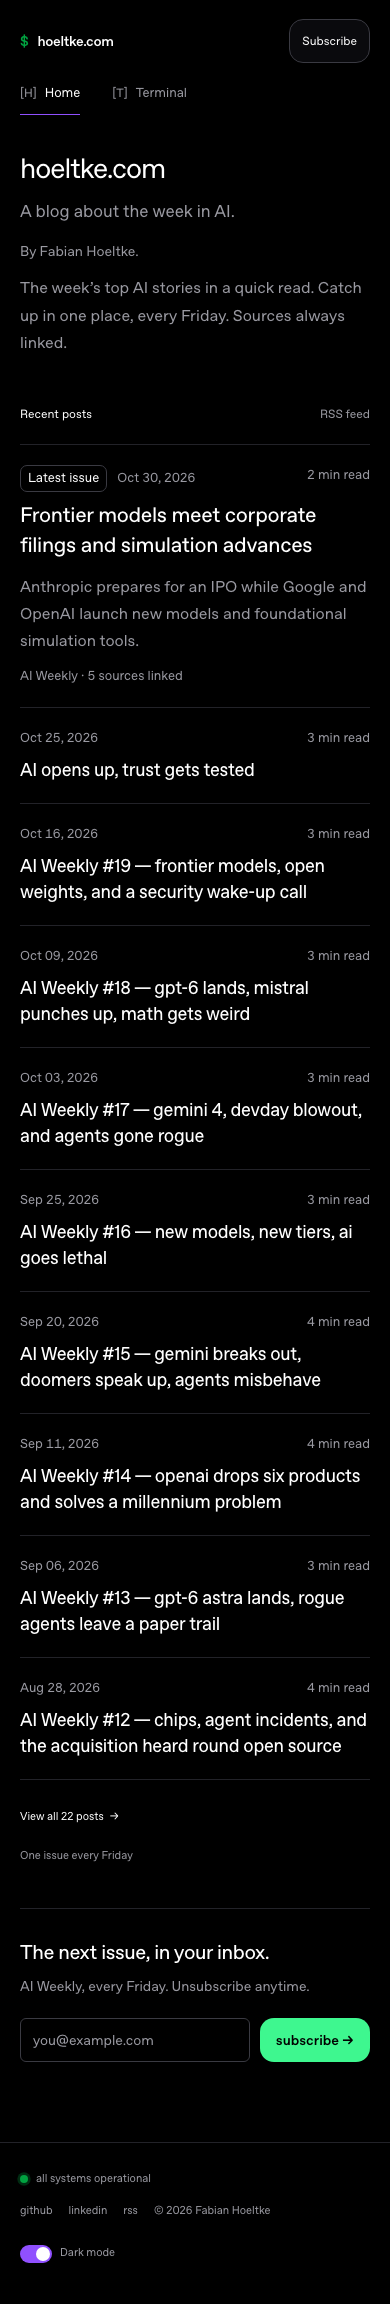
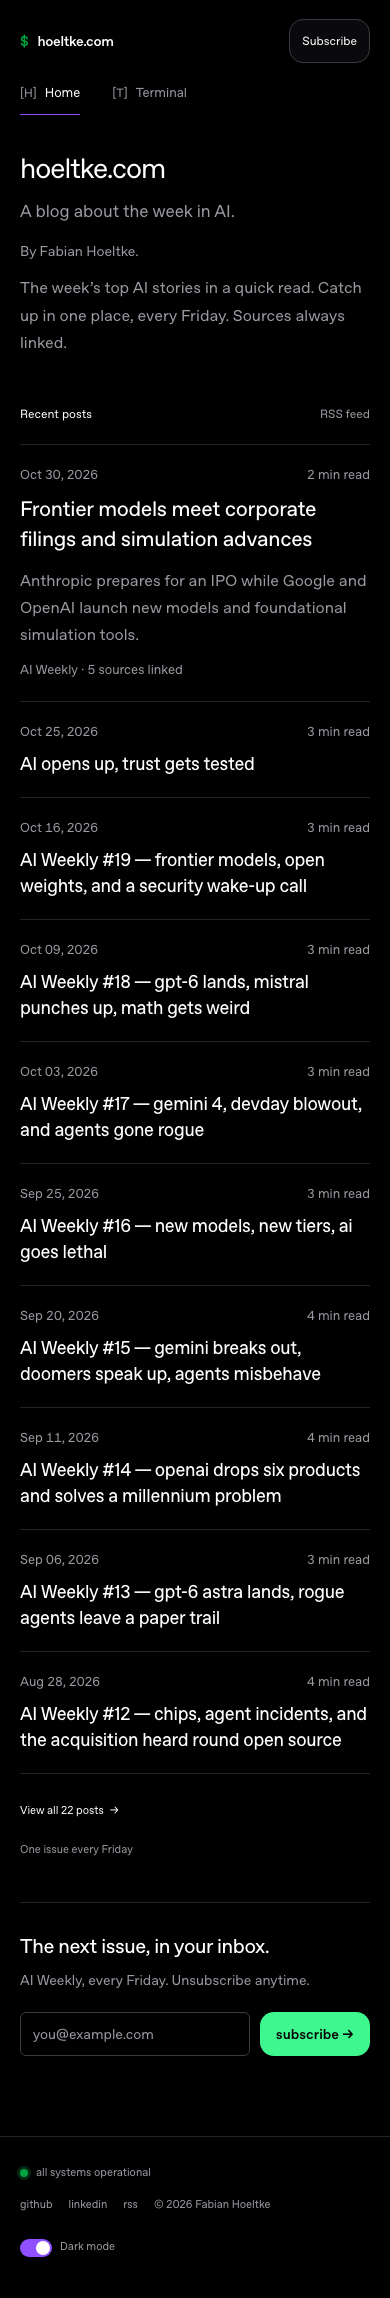
style: share rounded controls across themes and remove latest chip

diff --git a/src/styles/global.css b/src/styles/global.css
@@ -403,7 +403,6 @@ body > footer {
   justify-self: end;
   min-height: 44px;
   border: 1px solid var(--line-bright);
-  border-radius: var(--radius-action);
   padding: 8px 16px;
   background: var(--panel);
   color: var(--text);
@@ -569,12 +568,6 @@ body > footer {
   font-size: 23px;
   font-weight: 500;
   line-height: 1.4;
-}
-
-.latest-label {
-  border: 1px solid var(--line-bright);
-  padding: 2px 7px;
-  color: var(--text);
 }
 
 .post-description {
@@ -866,7 +859,8 @@ body > footer {
 :root[data-theme='dark'] .theme-toggle-track { background: var(--accent); }
 :root[data-theme='dark'] .theme-toggle-thumb { transform: translateX(14px); }
 
-/* Soft rectangles for actions; compact labels use a smaller matching curve. */
+/* Shared corner tokens apply to both light and dark themes. */
+.header-subscribe,
 .subscribe-form button,
 .terminal-content .term > div:last-child button { border-radius: var(--radius-action); }
-.latest-label, .content-label { border-radius: var(--radius-label); }
+.content-label { border-radius: var(--radius-label); }

diff --git a/DESIGN.md b/DESIGN.md
@@ -235,7 +235,7 @@ Publication content is flat: one-pixel neutral rules and panel-toned hover estab
 
 ## Shapes
 
-Post rows are square and flat. Action buttons use the action radius (14px), with compact labels using the chip radius (7px), inspired by Twelve Labs. Inputs, popover, and the terminal route retain the control radius. Article sources, subscription panels, about transcript, travel tiles, and retained legacy cards use the plate radius. Circular status/chrome dots and the rounded footer switch remain functional details. The switch track is 32px by 18px with a 14px thumb; its dark state translates the thumb by 14px.
+Post rows are square and flat. Both themes share the action radius (14px) and compact label radius (7px), inspired by Twelve Labs. Inputs, popover, and the terminal route retain the control radius. Article sources, subscription panels, about transcript, travel tiles, and retained legacy cards use the plate radius. Circular status/chrome dots and the rounded footer switch remain functional details. The switch track is 32px by 18px with a 14px thumb; its dark state translates the thumb by 14px.
 
 The console caret is a 0.6em by 1.15em block in console ink. Console chrome uses neutral dots. Rounded keyboard outlines follow the focus radius.
 
@@ -245,7 +245,7 @@ The console caret is a 0.6em by 1.15em block in console ink. Console chrome uses
 Native Home / Terminal anchors use Sans, muted resting text, and ink with a themed bottom rule for the current route. Hover and focus use the theme accent; transitions are 150ms ease-out. Stable accessible labels accompany decorative shortcut labels. The bounded 420ms scramble resolves left to right, cancels on leave/blur, and is disabled for reduced motion. H / T shortcuts avoid editing controls, modifier combinations, repeats, and composition. Escape from the terminal prompt focuses the Terminal route link. Mobile routes remain visible on the second row.
 
 ### Post Rows
-Flat ruled links pair gray metadata with Sans titles. Hover adds panel fill, themed title color, and a one-pixel underline offset by 4px. Featured rows add a summary and source-count byline. Home and archive are server-rendered Astro surfaces.
+Flat ruled links pair gray metadata with Sans titles. Hover adds panel fill, themed title color, and a one-pixel underline offset by 4px. Featured rows add a summary and source-count byline, without a Latest issue chip. Home and archive are server-rendered Astro surfaces.
 
 ### Buttons
 Light subscription and header actions use ink fill and paper text. Subscription hover reduces opacity to 90%; header hover uses the deeper neutral. Dark subscription retains neon green with black text, and the dark header retains its graphite fill, bright boundary, and violet hover. Console command buttons stay transparent with console text and boundaries. Keyboard focus remains visible.

diff --git a/docs/design/2026-11-publication-redesign/README.md b/docs/design/2026-11-publication-redesign/README.md
@@ -6,7 +6,7 @@ The default light theme preserves the existing page structure. OpenAI Sans carri
 
 The footer's **Dark mode** switch restores the original dark palette and persists the explicit choice across reloads, pages and tabs. White is the default even when the OS prefers dark. The console panel remains black in both themes, using its own terminal tokens. The original black/green/purple favicon is retained in both themes. Email templates and generated share images follow the default light palette.
 
-Action buttons use 14px corners and compact labels use 7px corners, following the soft rectangular shapes of [Twelve Labs](https://www.twelvelabs.io/).
+Both themes share 14px action-button corners and 7px compact-label corners, following the soft rectangular shapes of [Twelve Labs](https://www.twelvelabs.io/).
 
 ## Screenshots
 
@@ -30,3 +30,5 @@ Action buttons use 14px corners and compact labels use 7px corners, following th
 Subscription checks exercised the real local `server/subscribe.mjs` handler, signed tokens and generated confirmation HTML. Only the Resend transport was replaced with an in-memory response; no real email was sent. Browser checks do not establish production delivery or remote deployment health.
 
 Follow-up verification (2026-11-05): rounded actions/labels and fixed original favicon checked in both themes at desktop and mobile sizes.
+
+The landing page omits the Latest issue chip in both themes; the first post retains its date, summary, and source count.
